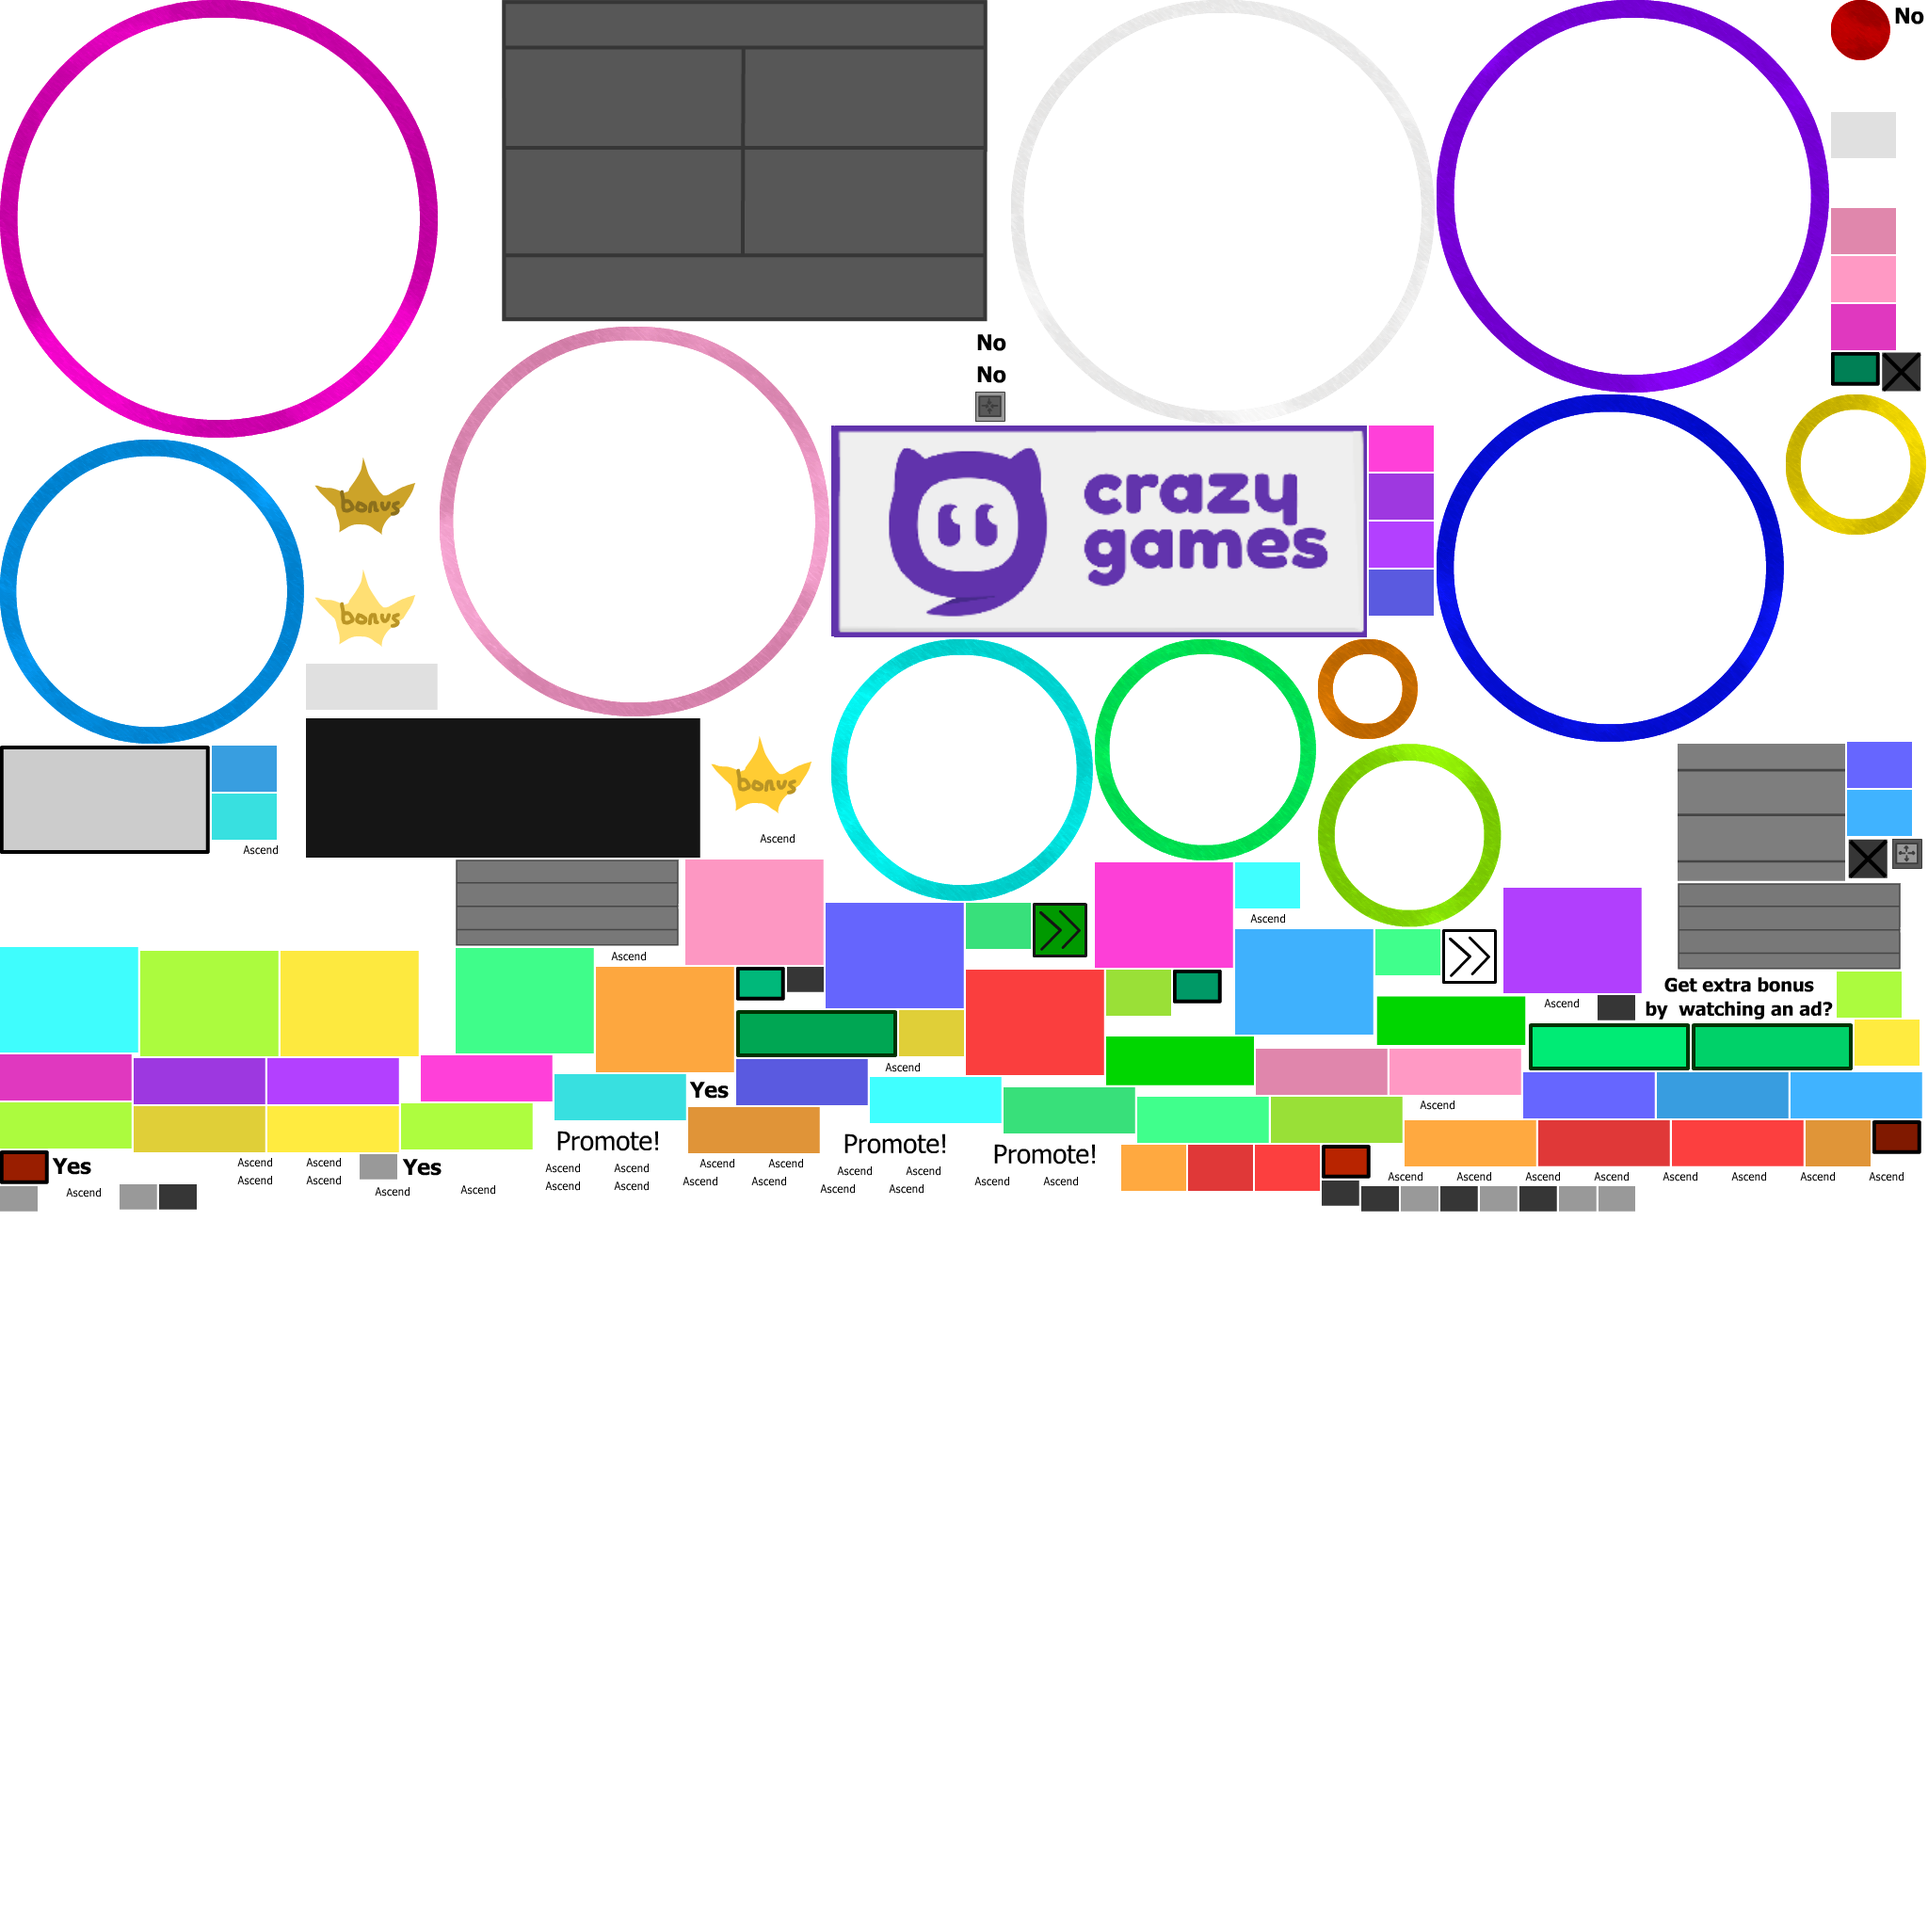
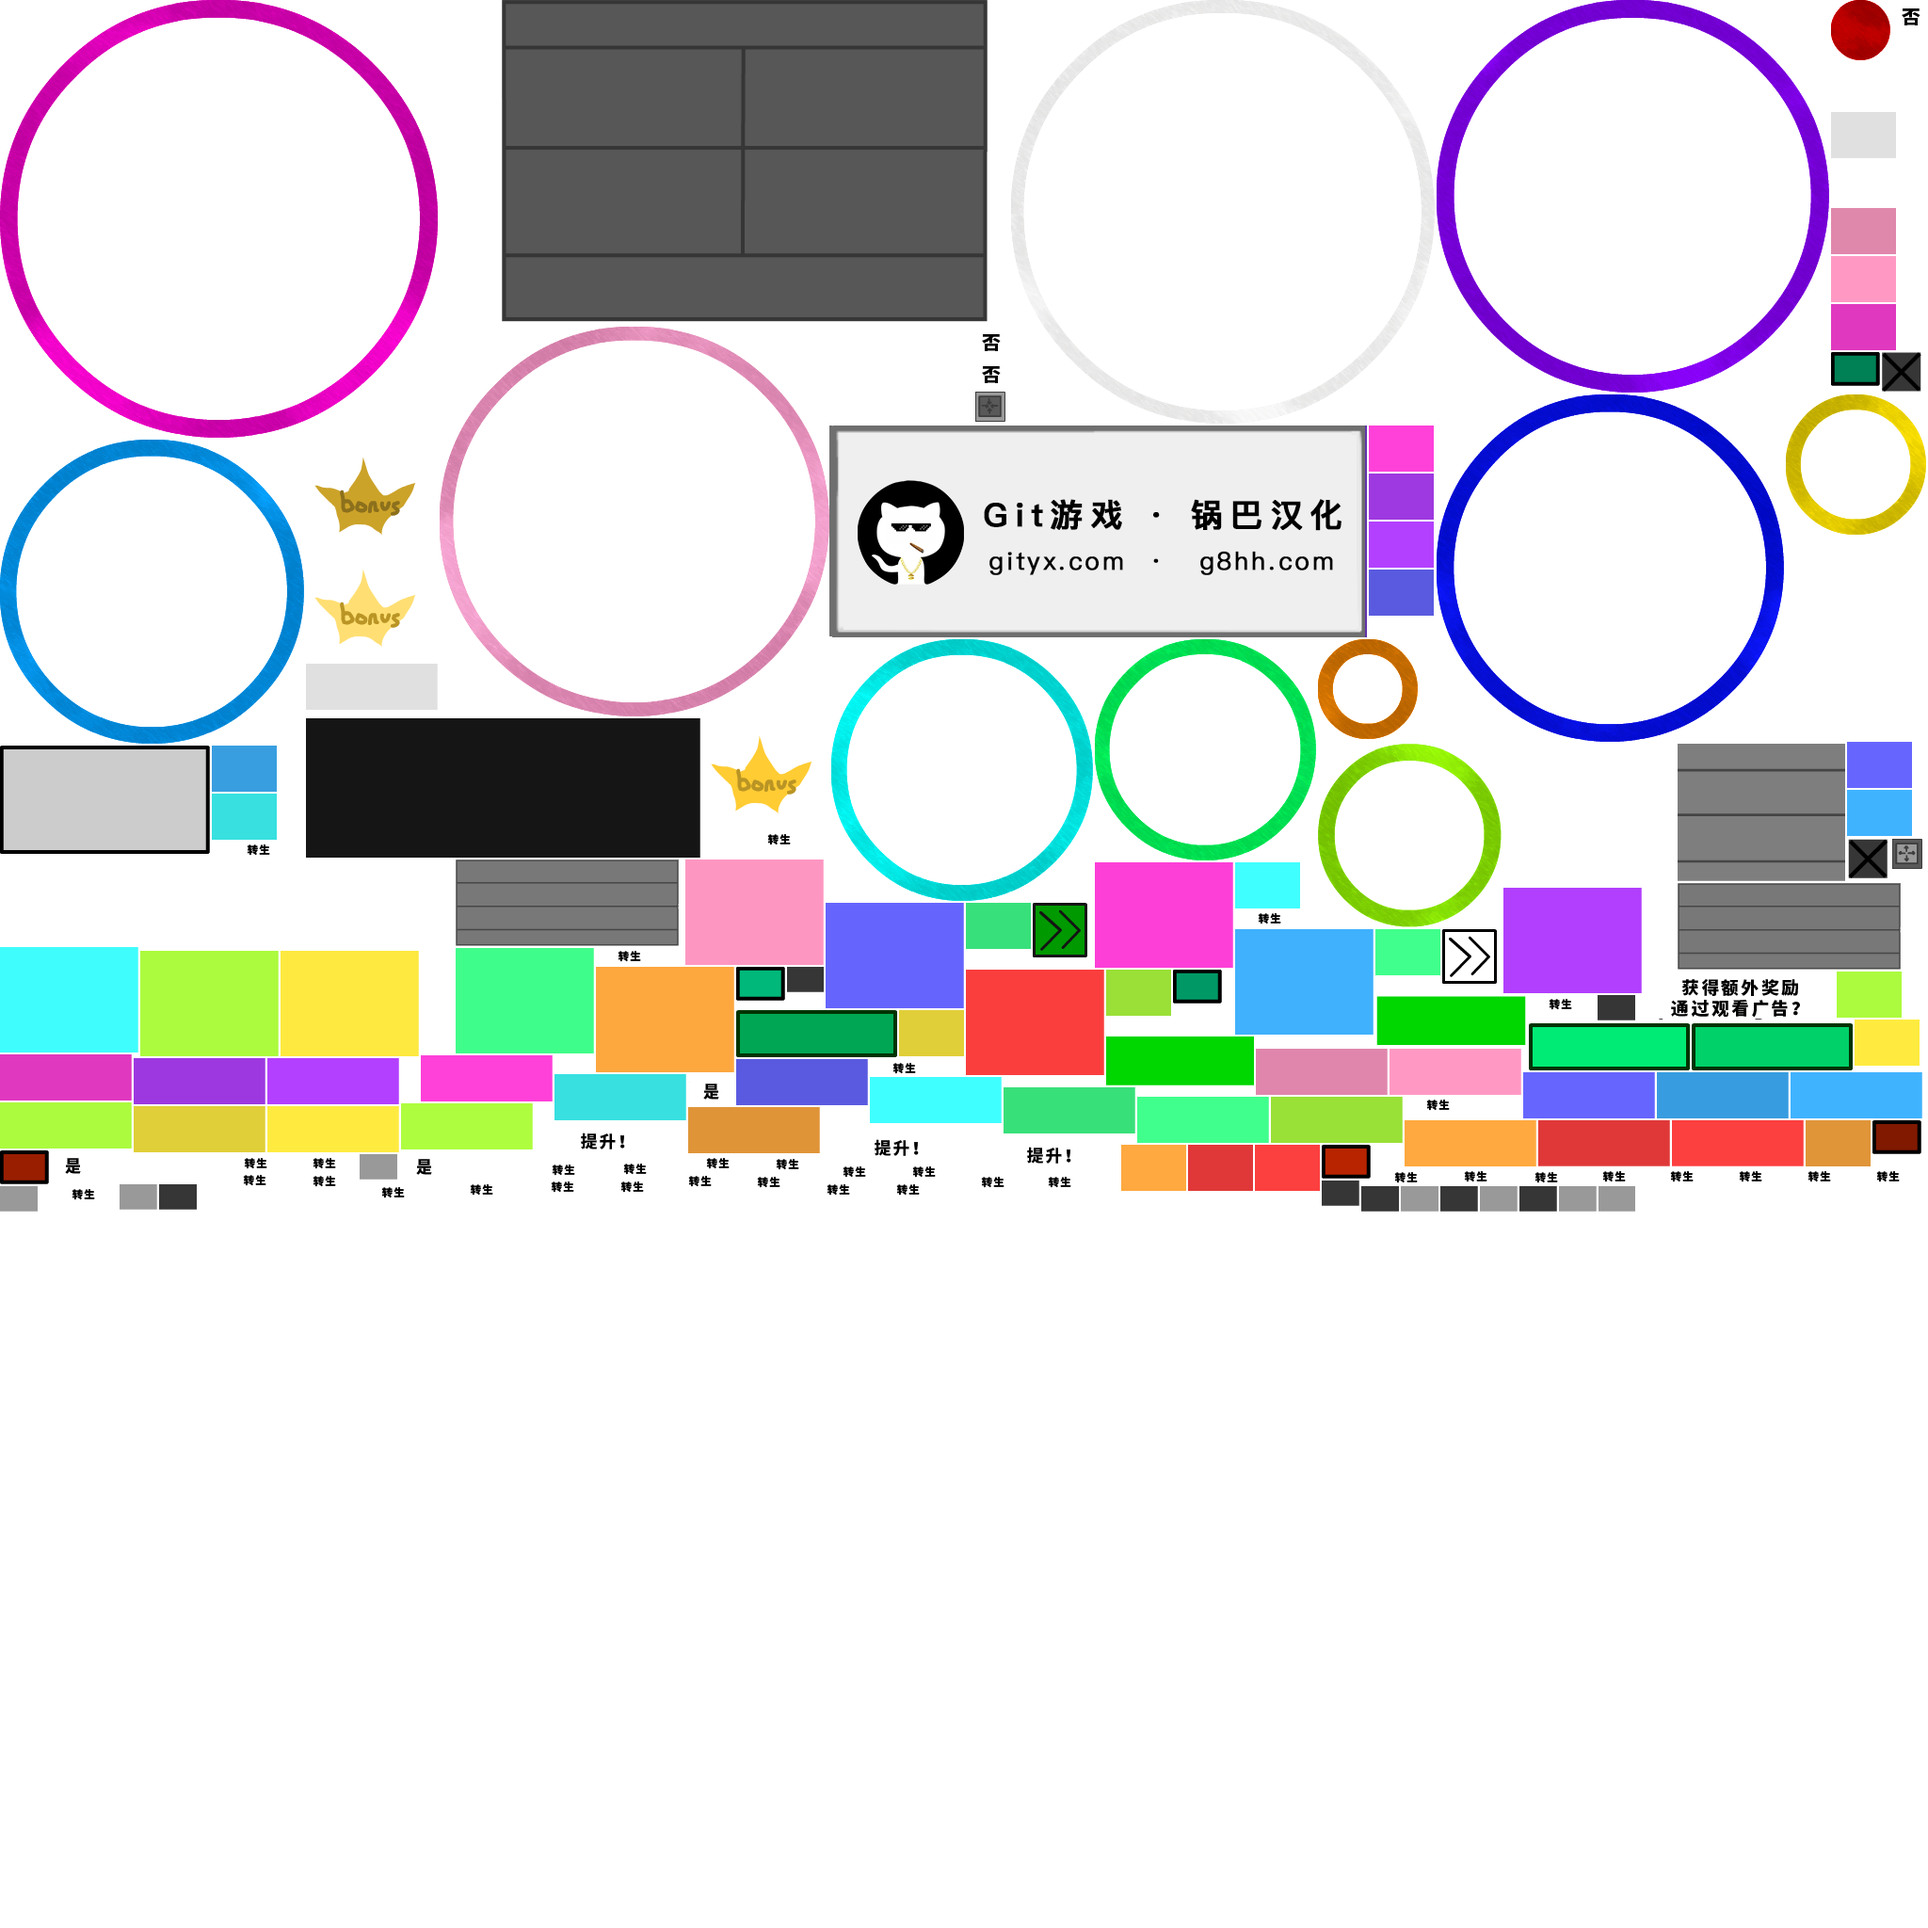
更新

diff --git a/index.js b/index.js
@@ -8568,7 +8568,7 @@ p.nominalBounds = new cjs.Rectangle(-34.6,-25.2,70.2,50.599999999999994);
 		
 		this.cGames.addEventListener("click", goCG.bind(this));
 		function goCG() {
-			window.open("http://crazygames.com/", "_blank");
+			window.open("http://gityx.com/", "_blank");
 		}
 		
 		
